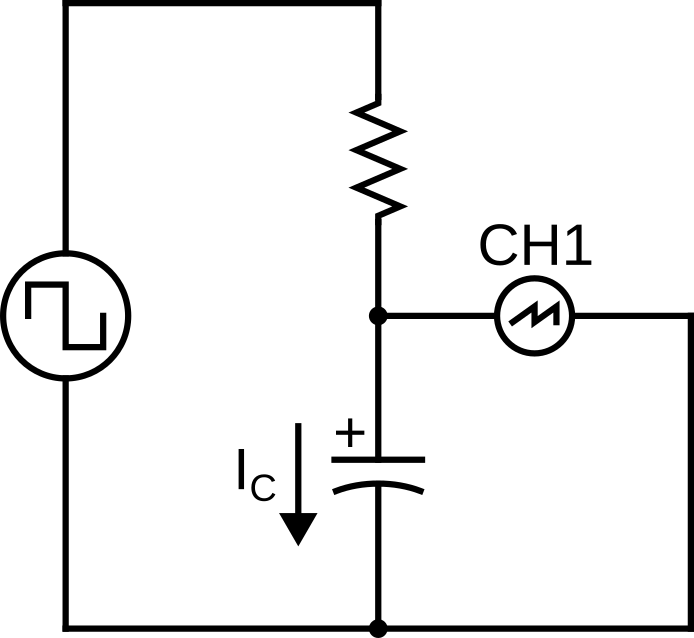
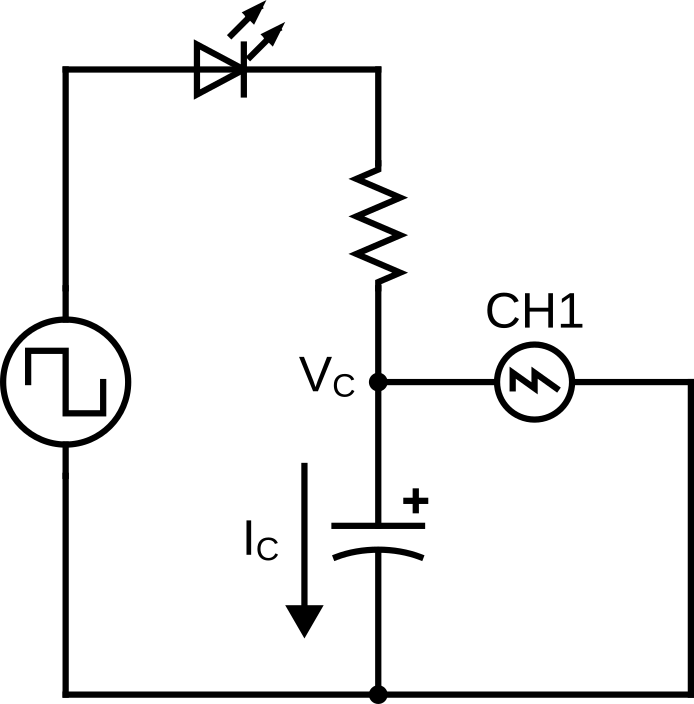
updated lab 6-10

diff --git a/docs/ses250/lab8.md b/docs/ses250/lab8.md
@@ -128,6 +128,16 @@ $$ f_c = {1 \over {2 \pi R C}} $$
 
 Source: [All About Circuits: Low-pass Filters](https://www.allaboutcircuits.com/textbook/alternating-current/chpt-8/low-pass-filters/)
 
+## Potentiometer
+
+A potentiometer is a three-terminal resistor with a sliding or rotating contact that forms an adjustable voltage divider.[1] If only two terminals are used, one end and the wiper, it acts as a variable resistor or rheostat. The measuring instrument called a potentiometer is essentially a voltage divider used for measuring electric potential (voltage); the component is an implementation of the same principle, hence its name.
+
+![Figure 8.7a](lab8-pot.png) ![Figure 8.7b](lab8-pot-symbol.png)
+
+***Figure 8.7 (Left) Potentiometer with leg indication, (Right) Potentiometer Electronics Symbol***
+
+Source: [Wikipedia: Potentiometer](https://en.wikipedia.org/wiki/Potentiometer)
+
 ## Materials
 - Safety glasses (PPE)
 - [Lab Supplies](supplies.md)
@@ -138,7 +148,8 @@ Source: [All About Circuits: Low-pass Filters](https://www.allaboutcircuits.com/
     - (1x) 1kΩ Resistor (brown-black-red)
     - (1x) 4.7kΩ resistor (yellow-violet-red)
     - (1x) 10kΩ resistor (brown-black-orange)
-    - (1x) 47μH to 1000μH toroidal inductor (supplied by the instructor)
+    - (1x) 100μH drum inductor
+    - (1x) 10kΩ Potentiometer (Blue Trimpot)
 
 ## Preparation
 
@@ -146,9 +157,9 @@ Source: [All About Circuits: Low-pass Filters](https://www.allaboutcircuits.com/
 >
 > 1. Read and summarize the lab as necessary.
 > 1. Copy observation tables 1, and 2 of this lab into your notebook.
-> 1. Sketch a breadboard diagram of Figure 8.7 onto your notebook.
+> 1. Sketch three breadboard diagram, one for each of Figure 8.8, Figure 8.10 and Figure 8.12 onto your notebook.
 > 1. Derive a formula to find the inductance of an inductor from the RL response formula.
-> 1. If we need to reduce a 500kHz noise by at least 70.7% with an RL low-pass filter. Which resistor from our lab material should we if you are given a 50μH inductor?
+> 1. If we need to reduce a 500kHz noise to at least 70.7% of it's original value with an RL low-pass filter. Which resistor from our lab material should we if you are using the 100μH inductor?
 
 ## Procedures
 
@@ -156,13 +167,13 @@ Source: [All About Circuits: Low-pass Filters](https://www.allaboutcircuits.com/
 
 In this part of the lab, we will be exploring the transient response (de-energizing and energizing) of an RL circuit. A function generator set to square wave output will act as the closing and opening of the circuit.
 
-![Figure 8.7](lab8-rl-circuit-1.png)
+![Figure 8.8](lab8-rl-circuit-1.png)
 
-***Figure 8.7***
+***Figure 8.8***
 
-1. Obtain a toroidal inductor that is between 47μH to 1000μH. The inductance of an inductor cannot be easily measured using the DMM we have in the lab. As a result, in addition to observing the RL response, you'll also be estimating the inductance of the inductor.
+1. Obtain a 100μH inductor. The inductance of an inductor cannot be easily measured using the DMM we have in the lab. As a result, in addition to observing the RL response, you'll also be estimating the inductance of the inductor.
 
-1. Depending on the inductor, select a resistor value that will give you an RL time constant, \(\tau = {L \over R}\), of about and smaller than 0.01ms. You'll also need a breadboard and a few jumper wires.
+1. Select a resistor value that will give you an RL time constant, \(\tau = {L \over R}\), of about 1μs. You'll also need a breadboard and a few jumper wires.
 
     > **Lab Question 1:** Measure the resistance value of your resistor and record it in Table 1. Refer to [Lab 2](lab2.md) if you don't remember how to measure resistance.
     >
@@ -172,22 +183,22 @@ In this part of the lab, we will be exploring the transient response (de-energiz
     > |---|---|
     > | Measured Resistance (R) [Ω] ||
     > | Marked Inductance (L) [H] ||
-    > | Theoretical RL Constant (\(\tau = {L \over R}\)) [ms] ||
-    > | Measured τ [ms] ||
+    > | Theoretical RL Constant (\(\tau = {L \over R}\)) [s] ||
+    > | Measured τ [s] ||
     > | Estimated Inductance [H] ||
     > | % Error Inductance ||
     >
     > **Lab Question 2:** Calculate the theoretical RL time constant using the measured resistance value and the marked inductance value.
 
-1. Set up your circuit as per Figure 8.7 with CH1 of the DSO measuring the voltage across the inductor. If the inductor doesn't go into the breadboard, use jumper wires and alligaor clips from the DSO to help with the connection. The transient current through the inductor can only be estimated using the voltage across.
+1. Set up your circuit as per Figure 8.7 with CH1 of the DSO measuring the voltage across the inductor. The transient current through the inductor can only be estimated using the voltage across.
 
-1. Turn on the function generator and set the output to a 1Vpp square wave at 10kHz **with a 1V DC Offset at High-Z output mode**. Leave all other settings as default. Refer to [Lab 6](lab6.md) if you don't remember how to use a function generator.
+1. Turn on the function generator and set the output to a 3Vpp square wave at 100kHz **with a 3V DC Offset at High-Z output mode**. Leave all other settings as default. Refer to [Lab 6](lab6.md) if you don't remember how to use a function generator.
 
-1. Turn on the DSO and adjust the settings so you'll see a single period of the RL waveform similar to Figure 8.4. Remember, the function generator is simulating the closing and opening of the circuit at 10kHz. You should see something similar to Figure 8.8 below if you setup your circuit properly. If not, verify your connection. Refer to [Lab 6](lab6.md) if you don't remember how to use a function generator.
+1. Turn on the DSO and adjust the settings so you'll see a single period of the RL waveform similar to Figure 8.4. Remember, the function generator is simulating the closing and opening of the circuit at 100kHz. You should see something similar to Figure 8.8 below if you setup your circuit properly. If not, verify your connection. Refer to [Lab 6](lab6.md) if you don't remember how to use a function generator.
 
-    ![Figure 8.8](lab8-rl-curve.png)
+    ![Figure 8.9](lab8-rl-curve.png)
 
-    ***Figure 8.8 Series RL Circuit Voltage Curve (Red) Sourse (Black) Inductor Voltage***
+    ***Figure 8.9 Series RL Circuit Voltage Curve: (Red) Voltage Source, (Black) Voltage Across Inductor***
 
     > **Lab Question 3:** Using the grid line or the measurement tool, find the time it takes for the voltage to drop 67% from the maximum and record it as the measured RL time constant.
     >
@@ -197,11 +208,11 @@ In this part of the lab, we will be exploring the transient response (de-energiz
 
 In this part of the lab, we'll explore a simple filter circuit using a resistor and an inductor called an inductive low-pass filter. You'll be exploring another simple filter circuit called the capacitive low-pass filter as part of the course project. A triangular (saw) wave from a signal generator will be used to simulate noise.
 
-![Figure 8.9](lab8-rl-filter.png)
+![Figure 8.10](lab8-rl-filter.png)
 
-***Figure 8.9***
+***Figure 8.10***
 
-1. Using the toroidal inductor from Part 1, calculate the cutoff frequency for an inductive low-pass filter for the various resistor values in Table 2.
+1. Using the 100μH inductor from Part 1, calculate the cutoff frequency for an inductive low-pass filter for the various resistor values in Table 2.
 
     > **Lab Question 5:** Calculate the cutoff frequency for an inductive low-pass filter for various resistor values and record it in Table 2.
     >
@@ -215,18 +226,32 @@ In this part of the lab, we'll explore a simple filter circuit using a resistor 
     > | 4.7kΩ ||
     > | 10kΩ ||
 
-1. Set up your circuit as per Figure 8.8 with CH1 of the DSO measuring the voltage between the inductor and the resistor (the output of the RL low-pass filter) and CH2 connected to the output of the function generator (raw signal). Start from the largest resistor.
+1. Set up your circuit using a 10kΩ as per Figure 8.8 with CH1 of the DSO measuring the voltage between the inductor and the resistor (the output of the RL low-pass filter) and CH2 connected to the output of the function generator (raw signal). Start from the largest resistor.
 
-1. Turn on the function generator and set the output to a 1Vpp triangular (saw) wave or noise at 1MHz **with a 1V DC Offset at High-Z output mode**. Leave all other settings as default. Refer to [Lab 6](lab6.md) if you don't remember how to use a function generator. This will simulate a signal at 1V with noise at 1MHz.
+1. Turn on the function generator and set the output to a 3Vpp triangular (saw) wave or noise at 1MHz **with a 3V DC Offset at High-Z output mode**. Leave all other settings as default. Refer to [Lab 6](lab6.md) if you don't remember how to use a function generator. This will simulate a signal at 1V with noise at 1MHz.
 
-1. Turn on the output of the function generator and observe the difference between the raw signal (1VDC signal plus 1MHz noise) and the filtered signal. You should see something (but not exactly) in Figure 8.10 with the centre at 1V instead of 0V.
+1. Turn on the output of the function generator and observe the difference between the raw signal (3VDC signal plus 1MHz noise) and the filtered signal. You should see something (but not exactly) in Figure 8.10 with the centre at 3V instead of 0V.
 
-    ![Figure 8.10](lab8-filter-curve.png)
+    ![Figure 8.11](lab8-filter-curve.png)
 
-    ***Figure 8.10 (Blue Line) Raw signal, (Orange Line) Filtered signal***
+    ***Figure 8.11 (Blue Line) Raw signal, (Orange Line) Filtered signal***
 
 1. Take a photo or make a sketch of your observation then repeat for all the resistor values.
 
     > **Lab Question 6:** At which resistor value do you start to see significant improvement in filtering out (smoothing off) the 1MHz noise? What is the cutoff frequency?
+
+### Part 3: RL Low-pass Filters using Potentiometer
+
+Lastly, we are going to using a potentiometer so we can fine adjust the RL filter parameter.
+
+1. Set up your circuit using a 1kΩ resistor, a 10kΩ Potentiometer as per Figure 8.12 with CH1 and CH2 of the DSO measuring the voltage between the inductor and the resistor (the output of the RL low-pass filter) and CH2 connected to the output of the function generator (raw signal).
+
+    ![Figure 8.12](lab8-rl-filter-pot.png)
+
+    ***Figure 8.12***
+
+1. Turn the potentiometer to see the filtering effect at various resistance value.
+
+1. DO NOT DISASSEMBLE YOUR CIRCUIT UNTIL YOUR LAB HAS BENN MARKED BY THE INSTRUCTOR.
 
 Once you've completed all the above steps, ask the lab professor or instructor over and demostrate that you've completed the lab and written down all your observations. You might be asked to explain some of the concepts you've learned in this lab.

diff --git a/docs/ses250/lab7.md b/docs/ses250/lab7.md
@@ -91,6 +91,16 @@ The chart below shows a typical curve of the voltage across the capacitor during
 
 Source: [Wikipedia: RC Circuit](https://en.wikipedia.org/wiki/RC_circuit)
 
+## Light-emitting diode (LED)
+
+A light-emitting diode (LED) is a semiconductor device that emits light when current flows through it. Electrons in the semiconductor recombine with electron holes, releasing energy in the form of photons. The color of the light (corresponding to the energy of the photons) is determined by the energy required for electrons to cross the band gap of the semiconductor.White light is obtained by using multiple semiconductors or a layer of light-emitting phosphor on the semiconductor device.
+
+![Figure 7.6a](lab7-led.png) ![Figure 7.6b](lab7-led-symbol.png)
+
+***Figure 7.6 Left: The flat spot of the LED indicate the Cathode (-) lead. Right: LED Electronic Symbol.***
+
+Source: [Wikipedia: Light-emitting diode](https://en.wikipedia.org/wiki/Light-emitting_diode)
+
 ## Materials
 - Safety glasses (PPE)
 - [Lab Supplies](supplies.md)
@@ -100,6 +110,7 @@ Source: [Wikipedia: RC Circuit](https://en.wikipedia.org/wiki/RC_circuit)
     - (1x) 10kΩ resistor (brown-black-orange)
     - (1x) 100nF Ceramic Capacitor (usually orange with 104 marking)
     - (1x) 10μF Electrolytic Capacitor (usually blue or black with 10μF marking)
+    - (1x) 100μF Electrolytic Capacitor (usually blue or black with 100μF marking)
 
 ## Preparation
 
@@ -107,7 +118,7 @@ Source: [Wikipedia: RC Circuit](https://en.wikipedia.org/wiki/RC_circuit)
 >
 > 1. Read and summarize the lab as necessary.
 > 1. Copy observation tables 1, 2 and 3 of this lab into your notebook.
-> 1. Sketch a breadboard diagram of Figure 7.7 onto your notebook.
+> 1. Sketch a breadboard diagram of Figure 7.8 onto your notebook.
 > 1. Calculate the theoretical RC time constant (τ) for each combination of R-C in Table 2.
 > 1. Calculate the voltage at τ if the initial voltage of an R-C circuit is 1V. Show all calculations.
 > 1. Derive the formula for the current through the resistor in an RC circuit.
@@ -118,11 +129,11 @@ Source: [Wikipedia: RC Circuit](https://en.wikipedia.org/wiki/RC_circuit)
 
 In this part of the lab, we will be exploring the capacitance of a capacitor.
 
-1. Turn on a DMM and set it to capacitance mode by pressing the SHIFT (1) + Freq (2) button (to access the -||- mode). Ensure the alligator clips are connected to the terminals labelled “HI” under “Input VΩ►|” (3) and “LO” under “Input VΩ►|” (4).
+1. Turn on a DMM and set it to capacitance mode by pressing the SHIFT (1) + Freq (2) button (to access the -||- mode) then release. Ensure the alligator clips are connected to the terminals labelled “HI” under “Input VΩ►|” (3) and “LO” under “Input VΩ►|” (4).
 
-    ![Figure 7.6](lab7-dmm-capacitance.png)
+    ![Figure 7.7](lab7-dmm-capacitance.png)
 
-    ***Figure 7.6***
+    ***Figure 7.7***
 
     > **Lab Question 1:** Without connecting the cable to anything, record the capacitance with the alligator clip not connected to anything. This is the capacitance due to just the cable (open circuit capacitance).
     >
@@ -132,6 +143,7 @@ In this part of the lab, we will be exploring the capacitance of a capacitor.
     > |---|---|---|---|---|
     > |1|||||
     > |2|||||
+    > |3|||||
 
 1. Acquire a 100nF Capacitor (usually small and orange with marking 104 for 10 x 10^4 pF) then connect the two leads of the capacitor to the DMM.
 
@@ -145,7 +157,7 @@ In this part of the lab, we will be exploring the capacitance of a capacitor.
     <p style="font-size: 18px"><strong>INCORRECT CONNECTION AGAINST THE POLARIZATION OF THE CAPACITOR CAN BE CATASTROPHIC!</strong><p>
     </div>
 
-    > **Lab Question 4:** Record the capacitance by repeating step 2 with the 10μF Capacitor.
+    > **Lab Question 4:** Record the capacitance into the table 1. Repeat for a 100μF Capacitor.
 
 1. Disconnect the DMM and the capacitor.
 
@@ -153,11 +165,11 @@ In this part of the lab, we will be exploring the capacitance of a capacitor.
 
 In this part of the lab, we will be exploring the transient response (discharging and charging) of an RC circuit. A function generator set to square wave output will act as the closing and opening of the circuit.
 
-![Figure 7.7](lab7-rc-circuit-1.png)
+![Figure 7.8](lab7-rc-circuit-1.png)
 
-***Figure 7.7***
+***Figure 7.8***
 
-1. Obtain a 1kΩ resistor, 10kΩ resistors, a breadboard, and a few jumper wires. You should also have the capacitor you worked with earlier.
+1. Obtain a 1kΩ resistor, 10kΩ resistors, a breadboard, a LED and a few jumper wires. You should also have the capacitor you worked with earlier.
 
     > **Lab Question 5:** Measure the resistance value of your resistor and record it in Table 2. Refer to [Lab 2](lab2.md) if you don't remember how to measure resistance.
     >
@@ -168,22 +180,23 @@ In this part of the lab, we will be exploring the transient response (dischargin
     > |1kΩ|10μF||||
     > |1kΩ|100nF||||
     > |10kΩ|100nF||||
+    > |10kΩ|100μF||||
     >
     > **Lab Question 6:** Calculate the RC time constant τ = RC for each of the configuration above.
 
-1. Set up your circuit as per Figure 7.7 using a 1kΩ resistor and a 10μF capacitor on a breadboard with CH1 of the DSO measuring the voltage across the capacitor. The transient current through can only be estimated using the voltage across the capacitor in this configuration.
+1. Set up your circuit as per Figure 7.8 using a 1kΩ resistor and a 10μF capacitor on a breadboard with CH1 of the DSO measuring the voltage across the capacitor. Pay attention to the direction / polarity of the LED. The transient current through can only be estimated using the voltage across the capacitor in this configuration. However, the current can also be observed using the LED as it will light up when there are current. Additionally, the LED also act as a reverse current protection for the polarized capacitor.
 
     <div style="padding: 15px; border: 1px solid red; background-color: red; color: white;">
     <p style="font-size: 18px"><strong>INCORRECT CONNECTION AGAINST THE POLARIZATION OF THE CAPACITOR CAN BE CATASTROPHIC!</strong><p>
     </div>
 
-1. Turn on the function generator and set the output to a 1Vpp square wave at 10Hz **with a 1V DC Offset at High-Z ouptut mode**. Leave all other settings as default. Refer to [Lab 6](lab6.md) if you don't remember how to use a function generator.
+1. Turn on the function generator and set the output to a 3Vpp square wave at 10Hz **with a 3V DC Offset at High-Z ouptut mode**. Leave all other settings as default. Refer to [Lab 6](lab6.md) if you don't remember how to use a function generator.
 
     <div style="padding: 15px; border: 1px solid red; background-color: red; color: white;">
     <p style="font-size: 18px"><strong>Ensure the function generator is set to 1V DC offset</strong><p>
     </div>
 
-1. Turn on the DSO and adjust the settings so you'll see a single period of the RC waveform similar to Figure 7.5. Remember, the function generator is simulating the closing and opening of the circuit at 10Hz. Refer to [Lab 6](lab6.md) if you don't remember how to use a function generator.
+1. Turn on the DSO and adjust the settings to zoom into the falling edge of the square wave so you'll see a single period of the RC waveform similar to Figure 7.5. Remember, the function generator is simulating the closing and opening of the circuit at 10Hz. Refer to [Lab 6](lab6.md) if you don't remember how to use a function generator.
 
     > **Lab Question 7:** Using the grid line or the measurement tool, find the time it takes for the voltage to drop 67% from the maximum and record it as the measured RC time constant.
     >
@@ -194,11 +207,16 @@ In this part of the lab, we will be exploring the transient response (dischargin
     > |1kΩ|10μF||||
     > |1kΩ|100nF||||
     > |10kΩ|100nF||||
+    > |10kΩ|100μF||||
     >
     > **Lab Question 8:** Calculate the percentage error of the estimated and measured RC time constant.
 
 1. Repeat step 2 with the various values of resistors and capacitors.
 
     > **Lab Question 9:** What do you observe regarding the RC time constant as the resistor and the capacitor value increase and decrease?
+
+    > **Lab Question 10:** What do you observe from the LED in term of the charging / discharging cycle of the capacitor? Remember, where there are current, the LED will turn on.
+
+1. DO NOT DISASSEMBLE YOUR CIRCUIT UNTIL YOUR LAB HAS BENN MARKED BY THE INSTRUCTOR.
 
 Once you've completed all the above steps, ask the lab professor or instructor over and demostrate that you've completed the lab and written down all your observations. You might be asked to explain some of the concepts you've learned in this lab.

diff --git a/docs/ses250/lab9.md b/docs/ses250/lab9.md
@@ -93,7 +93,7 @@ Source: [CMM: Phase Shift](https://www.cmm.gov.mo/eng/exhibition/secondfloor/mor
     - (1x) 1kΩ resistor (brown-black-red)
     - (1x) 10kΩ resistor (brown-black-orange)
     - (1x) 100nF Ceramic Capacitor
-    - (1x) 47μH to 1000μH toroidal inductor (supplied by the instructor)
+    - (1x) 100μH drum inductor
 
 ## Preparation
 
@@ -138,7 +138,7 @@ The next part of this lab is to observe the AC response of an RC Circuit and the
     <p style="font-size: 18px"><strong>DO NOT USE A POLARIZED CAPACITOR!</strong><p>
     </div>
 1. Ensure that the function generator’s output is off then set the output of the function generator to High-Z.
-1. Set the output waveform to be a sine wave then set the output amplitude to 6 Vpp and the frequency to 1.00 kHz. Leave offset voltage and phase at 0.
+1. Set the output waveform to be a sine wave then set the output amplitude to 3 Vpp and the frequency to 1.00 kHz. Leave offset voltage and phase at 0.
 1. Turn on the oscilloscope then connect CH1 and CH2 to the circuit per the circuit diagram.
 
     **NOTE:** The ground (black cable) for both CH1 and CH2 is connected to the negative (black) node of the function generator.
@@ -182,7 +182,7 @@ The next part of this lab is to observe the AC response of an RL Circuit and the
 
 1. Set up the circuit in Figure 9.6 using a 10kΩ resistor and 47μH (or the inductor you used in Lab 8).
 1. Ensure that the function generator’s output is off then set the output of the function generator to High-Z.
-1. Set the output waveform to be a sine wave then set the output amplitude to 6 Vpp and the frequency to 1.00 kHz. Leave offset voltage and phase at 0.
+1. Set the output waveform to be a sine wave then set the output amplitude to 3 Vpp and the frequency to 1.00 kHz. Leave offset voltage and phase at 0.
 1. Turn on the oscilloscope then connect CH1 and CH2 to the circuit per the circuit diagram.
 
     **NOTE:** The ground (black cable) for both CH1 and CH2 is connected to the negative (black) node of the function generator.
@@ -203,10 +203,10 @@ The next part of this lab is to observe the AC response of an RL Circuit and the
     >
     >   |Freq|R|L|Theoretical Phase Shift|Time Diff|Phase Shift|
     >   |---|---|---|---|---|---|
-    >   |1 MHz|10 kΩ|(From Lab 8)|||
-    >   |1 MHz|1 kΩ|(From Lab 8)|||
-    >   |500 kHz|1 kΩ|(From Lab 8)|||
-    >   |500 kHz|100 Ω|(From Lab 8)|||
+    >   |1 MHz|10 kΩ|100 μH|||
+    >   |1 MHz|1 kΩ|100 μH|||
+    >   |500 kHz|1 kΩ|100 μH|||
+    >   |500 kHz|100 Ω|100 μH|||
 
 1. Repeat the measurement with various resistor values and frequencies to complete Table 1 to understand their relationships.
 

diff --git a/docs/ses250/lab5.md b/docs/ses250/lab5.md
@@ -123,5 +123,7 @@ For this lab, you'll be using the same circuit as the one from Lab 4 but you'll 
     > **Lab Question 3:** Does the value agree closely with the original circuit? Note that the \(R_{th}\) you've chosen might not exactly match the theoretical \(R_{th}\).
 
     > **Lab Question 4:** Calculate the power dissipation \(P = IV\) by the load resistor in each case. Which resistor dissipated the most power? This is the load resistor value that allow for the maximum amount of power to be transferred from the voltage source to the load (Maxium Power Transferred).
-    
+
+1. DO NOT DISASSEMBLE YOUR CIRCUIT UNTIL YOUR LAB HAS BENN MARKED BY THE INSTRUCTOR.
+
 Once you've completed all the above steps, ask the lab professor or instructor over and demostrate that you've completed the lab and written down all your observations. You might be asked to explain some of the concepts you've learned in this lab.

diff --git a/docs/ses250/lab2.md b/docs/ses250/lab2.md
@@ -267,6 +267,8 @@ Lab preparation must be done individually in the lab notebook.
 
     > **Lab Question 5:** Does this value agree with the Ohm's law calculation you made earlier in the pre-lab?
 
+1. DO NOT DISASSEMBLE YOUR CIRCUIT UNTIL YOUR LAB HAS BENN MARKED BY THE INSTRUCTOR.
+
 1. Turn off the DC power supply and disconnect the alligator clips.
 
 Once you've completed all the above steps, ask the lab professor or instructor over and demostrate that you've completed the lab and written down all your observations. You might be asked to explain some of the concepts you've learned in this lab.

diff --git a/docs/ses250/lab4.md b/docs/ses250/lab4.md
@@ -129,6 +129,8 @@ For this lab, below is the circuit that you'll be working with. You'll need to a
 
     > **Lab Question 3:** Does all the % error falls within the tolarance of the resistors?
 
+1. DO NOT DISASSEMBLE YOUR CIRCUIT UNTIL YOUR LAB HAS BENN MARKED BY THE INSTRUCTOR.
+
 1. You can keep your circuit assembled for Lab 5.
 
 Once you've completed all the above steps, ask the lab professor or instructor over and demostrate that you've completed the lab and written down all your observations. You might be asked to explain some of the concepts you've learned in this lab.

diff --git a/docs/ses250/lab3.md b/docs/ses250/lab3.md
@@ -177,6 +177,8 @@ There are many breadboard simulators available online. In particular, [TinkerCAD
     > |Voltmeter Reading [V]|||||
     > |Ammeter Reading [A]|||||
 
+1. DO NOT DISASSEMBLE YOUR CIRCUIT UNTIL YOUR LAB HAS BENN MARKED BY THE INSTRUCTOR.
+
 1. Turn off the DC power supply output.
 
 Once you've completed all the above steps, ask the lab professor or instructor over and demostrate that you've completed the lab and written down all your observations. You might be asked to explain some of the concepts you've learned in this lab.

diff --git a/docs/ses250/index.md b/docs/ses250/index.md
@@ -10,12 +10,11 @@
 - [Lab 3 : Series and Parallel Resistive Circuit](lab3.md)
 - [Lab 4 : Kirchhoff's Laws](lab4.md)
 - [Lab 5 : Thévenin Theorem](lab5.md)
-<!-->
 - [Lab 6 : Digital Storage Oscilloscope (DSO)](lab6.md)
 - [Lab 7 : Capacitor and RC Circuit](lab7.md)
 - [Lab 8 : RL Circuit and Filters](lab8.md)
 - [Lab 9 : RC and RL Circuit in AC](lab9.md)
-- [Lab 10 : RLC Circuit Resonance](lab10.md)-->
+- [Lab 10 : RLC Circuit Resonance](lab10.md)
 
 ## Lab Project
 

diff --git a/docs/ses250/lab10.md b/docs/ses250/lab10.md
@@ -37,7 +37,7 @@ Source: [Wikipedia: RLC circuit](https://en.wikipedia.org/wiki/RLC_circuit)
     - Jumper Wires
     - (1x) 10kΩ resistor (brown-black-orange)
     - (1x) 100nF Ceramic Capacitor
-    - (1x) 47μH to 1000μH toroidal inductor (supplied by the instructor)
+    - (1x) 100μH toroidal inductor (supplied by the instructor)
 
 ## Preparation
 
